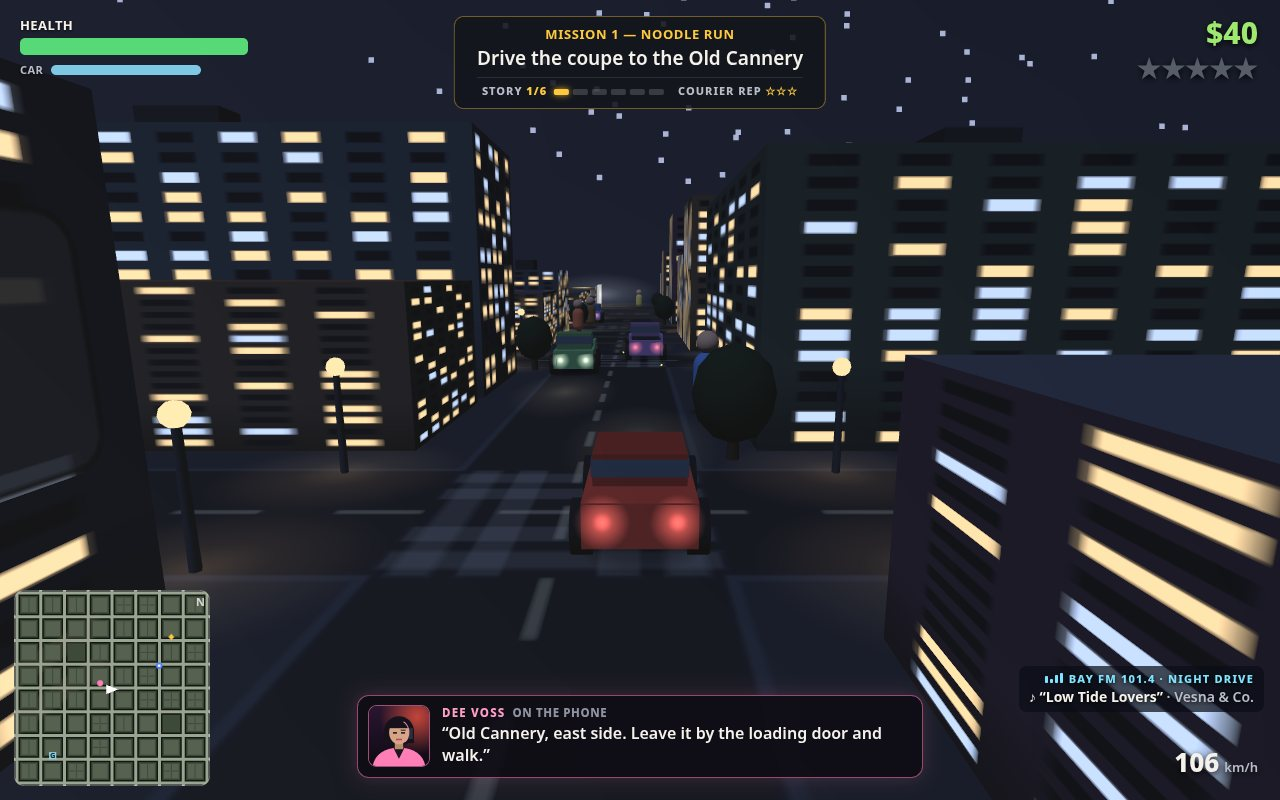
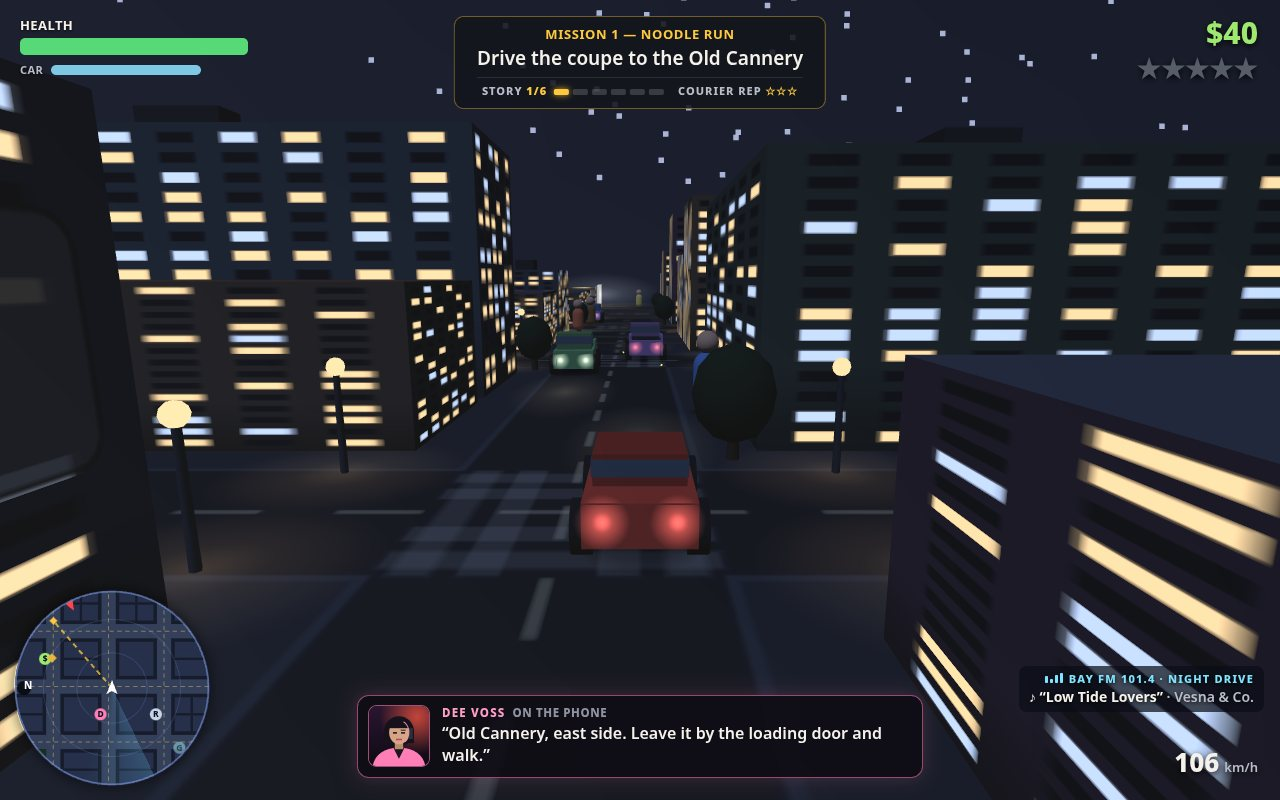
Round 7.6: radar minimap — player-centred, heading-up, night palette
Circular radar ~940 world units across: dark blocks, lit dashed street centre
lines, parks, POI glyphs (D noodle bar, G garage, $ bank, + hospital...), a
dashed route to the marker (pinned to the rim when far), police as facing
cones, AIR-1 with its searchlight pool, a sweep from state.time, and a rim
that strobes red/blue while wanted.

Changed region(s): [[0.0, 0.7188, 0.1875, 1.0]]

diff --git a/game/src/hud.js b/game/src/hud.js
@@ -8,6 +8,14 @@ import { angleDiff, clamp } from './geom.js';
 import { airUnit } from './air.js';
 
 const MINIMAP_SIZE = 196;
+/** World units from the radar's centre to its rim. */
+const RADAR_RANGE = 470;
+/** Named places on the radar: special key, glyph, disc colour. */
+const POI_GLYPHS = [
+  ['noodle', 'D', PALETTE.npc], ['safehouse', 'R', '#c9d3e6'], ['garage', 'G', PALETTE.garage],
+  ['bank', '$', '#9fe870'], ['hospital', '+', '#ff8a8a'], ['hotel', 'H', '#c8a6e8'],
+  ['cannery', 'C', '#d9b07a'], ['marina', 'M', '#7fc6ef'], ['station', 'S', '#aab8d0'], ['market', 'P', '#b9d39a'],
+];
 
 /** Dee's phone portrait, painted once: black bob and fringe, pink jacket, phone at
  *  her ear, and the red noodle-bar neon behind her rimming one side of her face. */
@@ -140,103 +148,212 @@ export function createHud() {
 
   // ------------------------------------------------------------ the minimap
 
+  /** Radar: a disc centred on the player, heading up, about 940 world units across,
+   *  in a night palette, with POI glyphs, police cones, AIR-1 and a route to the marker. */
   function drawMinimap(world, ui, city) {
     const state = world.state;
-    const size = MINIMAP_SIZE;
-    const x = 0;
-    const y = 0;
-    mctx.clearRect(0, 0, size, size);
+    const R = MINIMAP_SIZE / 2;
+    const player = state.player;
+    const heading = player.inCar && player.car ? player.car.angle : player.angle;
+    const s = (R - 5) / RADAR_RANGE;
+    const rot = -heading - Math.PI / 2;
+    const cos = Math.cos(rot);
+    const sin = Math.sin(rot);
+    const toRadar = (wx, wy) => {
+      const dx = (wx - player.x) * s;
+      const dy = (wy - player.y) * s;
+      return [R + dx * cos - dy * sin, R + dx * sin + dy * cos];
+    };
+    const atRim = (wx, wy, inset) => {
+      const [px, py] = toRadar(wx, wy);
+      const d = Math.hypot(px - R, py - R);
+      const max = R - inset;
+      return d <= max ? [px, py, false] : [R + (px - R) * max / d, R + (py - R) * max / d, true];
+    };
+    mctx.clearRect(0, 0, MINIMAP_SIZE, MINIMAP_SIZE);
     mctx.save();
     mctx.beginPath();
-    mctx.roundRect(x, y, size, size, 10);
-    mctx.fillStyle = 'rgba(16, 22, 18, 0.88)';
+    mctx.arc(R, R, R - 1, 0, Math.PI * 2);
+    mctx.fillStyle = 'rgba(6, 9, 16, 0.92)';
     mctx.fill();
     mctx.clip();
-    const s = size / city.size;
-    mctx.fillStyle = '#3d4a3a';
+
+    // The streets, in world space under the radar's rotation.
+    mctx.save();
+    mctx.translate(R, R);
+    mctx.rotate(rot);
+    mctx.scale(s, s);
+    mctx.translate(-player.x, -player.y);
+    mctx.fillStyle = '#34405a';
+    mctx.fillRect(0, 0, city.size, city.size);
+    mctx.fillStyle = '#161c2b';
     for (let row = 0; row < CITY.rows; row += 1) {
       for (let col = 0; col < CITY.cols; col += 1) {
-        mctx.fillRect(x + (col * CITY.pitch + CITY.road) * s, y + (row * CITY.pitch + CITY.road) * s, CITY.block * s, CITY.block * s);
+        mctx.fillRect(col * CITY.pitch + CITY.road, row * CITY.pitch + CITY.road, CITY.block, CITY.block);
       }
     }
-    mctx.fillStyle = 'rgba(235, 230, 205, 0.15)';
-    for (const b of city.buildings) {
-      mctx.fillRect(x + b.x * s, y + b.y * s, Math.max(1.4, b.w * s), Math.max(1.4, b.h * s));
-    }
-    mctx.strokeStyle = '#9aa48f';
-    mctx.lineWidth = Math.max(1, CITY.road * s * 0.5);
+    mctx.fillStyle = '#15301f';
+    for (const park of city.parks) mctx.fillRect(park.x, park.y, park.w, park.h);
+    mctx.fillStyle = '#26304a';
+    for (const b of city.buildings) mctx.fillRect(b.x, b.y, b.w, b.h);
+    mctx.strokeStyle = 'rgba(255, 214, 120, 0.4)';
+    mctx.lineWidth = 5;
+    mctx.setLineDash([22, 18]);
     mctx.beginPath();
     for (let i = 0; i <= CITY.cols; i += 1) {
-      mctx.moveTo(x + (i * CITY.pitch + CITY.road / 2) * s, y);
-      mctx.lineTo(x + (i * CITY.pitch + CITY.road / 2) * s, y + size);
-      mctx.moveTo(x, y + (i * CITY.pitch + CITY.road / 2) * s);
-      mctx.lineTo(x + size, y + (i * CITY.pitch + CITY.road / 2) * s);
+      const c = i * CITY.pitch + CITY.road / 2;
+      mctx.moveTo(c, 0);
+      mctx.lineTo(c, city.size);
+      mctx.moveTo(0, c);
+      mctx.lineTo(city.size, c);
     }
     mctx.stroke();
+    mctx.setLineDash([]);
+    mctx.restore();
+
+    // A slow sweep and two range rings.
+    const sweep = (state.time * 1.6) % (Math.PI * 2);
+    const grad = mctx.createConicGradient(sweep, R, R);
+    grad.addColorStop(0, 'rgba(110, 200, 255, 0.22)');
+    grad.addColorStop(0.12, 'rgba(110, 200, 255, 0)');
+    grad.addColorStop(1, 'rgba(110, 200, 255, 0)');
+    mctx.fillStyle = grad;
+    mctx.fillRect(0, 0, MINIMAP_SIZE, MINIMAP_SIZE);
+    mctx.strokeStyle = 'rgba(140, 170, 255, 0.16)';
+    mctx.lineWidth = 1;
+    for (const f of [0.36, 0.7]) {
+      mctx.beginPath();
+      mctx.arc(R, R, R * f, 0, Math.PI * 2);
+      mctx.stroke();
+    }
+
+    // Named places as glyphs.
+    mctx.font = '800 8.5px system-ui, sans-serif';
+    mctx.textAlign = 'center';
+    mctx.textBaseline = 'middle';
+    for (const [key, glyph, color] of POI_GLYPHS) {
+      const place = city.specials[key];
+      if (!place) continue;
+      const [px, py, clipped] = atRim(place.x, place.y, 8);
+      if (clipped && key !== 'garage') continue;
+      mctx.globalAlpha = clipped ? 0.6 : 1;
+      mctx.fillStyle = color;
+      mctx.beginPath();
+      mctx.arc(px, py, 6, 0, Math.PI * 2);
+      mctx.fill();
+      mctx.fillStyle = '#0b1020';
+      mctx.fillText(glyph, px, py + 0.5);
+      mctx.globalAlpha = 1;
+    }
+
+    // The route to the marker: a dashed line, and the marker pinned to the rim when far.
     if (ui.marker) {
-      const pulse = 3.4 + Math.sin(state.time * 5) * 1.1;
-      mctx.fillStyle = PALETTE.marker;
+      const [mx, my] = atRim(ui.marker.x, ui.marker.y, 9);
+      mctx.strokeStyle = 'rgba(255, 201, 62, 0.75)';
+      mctx.lineWidth = 2;
+      mctx.setLineDash([5, 4]);
+      mctx.beginPath();
+      mctx.moveTo(R, R);
+      mctx.lineTo(mx, my);
+      mctx.stroke();
+      mctx.setLineDash([]);
+      const pulse = 4.4 + Math.sin(state.time * 5) * 1.2;
       mctx.save();
-      mctx.translate(x + ui.marker.x * s, y + ui.marker.y * s);
+      mctx.translate(mx, my);
       mctx.rotate(Math.PI / 4);
+      mctx.fillStyle = PALETTE.marker;
       mctx.fillRect(-pulse / 1.4, -pulse / 1.4, pulse * 1.4, pulse * 1.4);
       mctx.restore();
     }
-    const phase = Math.floor(state.time * 2.4) % 2 === 0;
+
+    // Mission targets, police (cones facing their way), AIR-1. Dee is the D glyph.
     for (const car of state.cars) {
-      if (car.kind !== 'police') continue;
-      mctx.fillStyle = phase ? PALETTE.lightRed : PALETTE.lightBlue;
-      mctx.beginPath();
-      mctx.arc(x + car.x * s, y + car.y * s, 3.2, 0, Math.PI * 2);
-      mctx.fill();
-      mctx.fillStyle = '#ffffff';
-      mctx.beginPath();
-      mctx.arc(x + car.x * s, y + car.y * s, 1.2, 0, Math.PI * 2);
-      mctx.fill();
-    }
-    for (const car of state.cars) {
-      if (car.kind !== 'target') continue;
-      mctx.fillStyle = PALETTE.target;
+      if (car.kind !== 'target' && car.kind !== 'showpiece') continue;
+      const [tx, ty] = atRim(car.x, car.y, 6);
       mctx.save();
-      mctx.translate(x + car.x * s, y + car.y * s);
+      mctx.translate(tx, ty);
       mctx.rotate(Math.PI / 4);
-      mctx.fillRect(-3, -3, 6, 6);
+      mctx.fillStyle = car.kind === 'showpiece' ? '#e6b93d' : PALETTE.target;
+      mctx.fillRect(-3.4, -3.4, 6.8, 6.8);
       mctx.restore();
     }
-    const garagePlace = city.specials.garage;
-    mctx.fillStyle = PALETTE.garage;
-    mctx.fillRect(x + garagePlace.x * s - 3.6, y + garagePlace.y * s - 3.6, 7.2, 7.2);
-    mctx.fillStyle = '#16303a';
-    mctx.font = '800 7.5px system-ui, sans-serif';
-    mctx.textAlign = 'center';
-    mctx.fillText('G', x + garagePlace.x * s, y + garagePlace.y * s + 2.6);
-    mctx.fillStyle = PALETTE.npc;
-    mctx.beginPath();
-    mctx.arc(x + state.npc.x * s, y + state.npc.y * s, 3, 0, Math.PI * 2);
-    mctx.fill();
-    const player = state.player;
-    const angle = player.inCar && player.car ? player.car.angle : player.angle;
-    mctx.save();
-    mctx.translate(x + player.x * s, y + player.y * s);
-    mctx.rotate(angle);
+    state.cars.forEach((car, n) => {
+      if (car.kind !== 'police') return;
+      const [cx, cy, far] = atRim(car.x, car.y, 6);
+      const red = Math.floor(state.time * 3.75 + n) % 2 === 0;
+      mctx.save();
+      mctx.translate(cx, cy);
+      mctx.rotate(car.angle + rot);
+      if (!far) {
+        mctx.fillStyle = red ? 'rgba(255, 69, 69, 0.18)' : 'rgba(77, 124, 255, 0.2)';
+        mctx.beginPath();
+        mctx.moveTo(0, 0);
+        mctx.arc(0, 0, 26, -0.45, 0.45);
+        mctx.closePath();
+        mctx.fill();
+      }
+      mctx.fillStyle = red ? PALETTE.lightRed : PALETTE.lightBlue;
+      mctx.beginPath();
+      mctx.moveTo(6, 0);
+      mctx.lineTo(-4, -4);
+      mctx.lineTo(-4, 4);
+      mctx.closePath();
+      mctx.fill();
+      mctx.restore();
+    });
+    const air = airUnit(state);
+    if (air) {
+      const [hx, hy] = atRim(air.x, air.y, 8);
+      const [lx, ly] = toRadar(air.lightX, air.lightY);
+      mctx.fillStyle = 'rgba(220, 235, 255, 0.25)';
+      mctx.beginPath();
+      mctx.arc(lx, ly, 9, 0, Math.PI * 2);
+      mctx.fill();
+      mctx.save();
+      mctx.translate(hx, hy);
+      mctx.rotate(air.rotor * 0.2);
+      mctx.strokeStyle = '#e8f0ff';
+      mctx.lineWidth = 1.6;
+      mctx.beginPath();
+      mctx.moveTo(-7, 0); mctx.lineTo(7, 0);
+      mctx.moveTo(0, -7); mctx.lineTo(0, 7);
+      mctx.stroke();
+      mctx.restore();
+      mctx.fillStyle = '#e8f0ff';
+      mctx.beginPath();
+      mctx.arc(hx, hy, 2.6, 0, Math.PI * 2);
+      mctx.fill();
+    }
+
+    // The player, always at the centre, always pointing up.
     mctx.fillStyle = '#ffffff';
     mctx.beginPath();
-    mctx.moveTo(7, 0);
-    mctx.lineTo(-5, -4.6);
-    mctx.lineTo(-5, 4.6);
+    mctx.moveTo(R, R - 8);
+    mctx.lineTo(R - 5.5, R + 6);
+    mctx.lineTo(R, R + 3);
+    mctx.lineTo(R + 5.5, R + 6);
     mctx.closePath();
     mctx.fill();
     mctx.restore();
-    mctx.restore();
+
+    // The rim: red and blue on the strobe beat while wanted, and north riding it.
+    const wanted = state.wanted.stars > 0;
+    const beat = Math.floor(state.time * 3.75) % 2 === 0;
     mctx.beginPath();
-    mctx.roundRect(x, y, size, size, 10);
-    mctx.strokeStyle = 'rgba(255, 255, 255, 0.35)';
-    mctx.lineWidth = 1.6;
+    mctx.arc(R, R, R - 1.5, 0, Math.PI * 2);
+    mctx.strokeStyle = wanted ? (beat ? 'rgba(255, 69, 69, 0.85)' : 'rgba(77, 124, 255, 0.85)') : 'rgba(140, 170, 255, 0.5)';
+    mctx.lineWidth = wanted ? 2.6 : 1.8;
     mctx.stroke();
-    mctx.font = '700 11px system-ui, sans-serif';
-    mctx.fillStyle = 'rgba(255,255,255,0.75)';
-    mctx.textAlign = 'left';
-    mctx.fillText('N', x + size - 14, y + 16);
+    const north = rot - Math.PI / 2;
+    const nx = R + Math.cos(north) * (R - 10);
+    const ny = R + Math.sin(north) * (R - 10);
+    mctx.fillStyle = 'rgba(6, 9, 16, 0.9)';
+    mctx.beginPath();
+    mctx.arc(nx, ny, 7, 0, Math.PI * 2);
+    mctx.fill();
+    mctx.fillStyle = '#ffffff';
+    mctx.font = '800 10px system-ui, sans-serif';
+    mctx.fillText('N', nx, ny + 0.5);
   }
 
   // ------------------------------------------------------------ the arrow

diff --git a/game/index.html b/game/index.html
@@ -70,7 +70,7 @@
   #meter-wrap { position: absolute; left: 50%; top: 118px; transform: translateX(-50%); width: 300px; display: none; }
   #meter-label { font-size: 12px; font-weight: 700; color: #b9bdc7; margin-bottom: 3px; text-shadow: 0 1px 3px rgba(0,0,0,0.8); }
   #meter-bar { height: 11px; }
-  #minimap { position: absolute; left: 14px; bottom: 14px; border-radius: 10px; display: none; }
+  #minimap { position: absolute; left: 14px; bottom: 14px; border-radius: 50%; display: none; box-shadow: 0 0 14px rgba(0, 0, 0, 0.6); }
 
   #speed { position: absolute; right: 22px; bottom: 20px; display: none; text-align: right; text-shadow: 0 2px 6px rgba(0,0,0,0.85); }
   #speed-num { font-size: 26px; font-weight: 800; }
